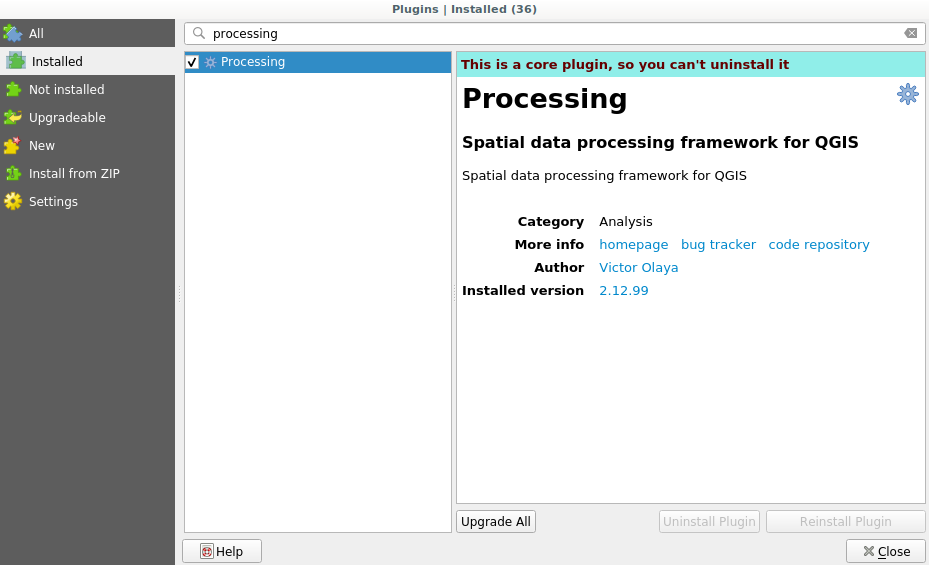
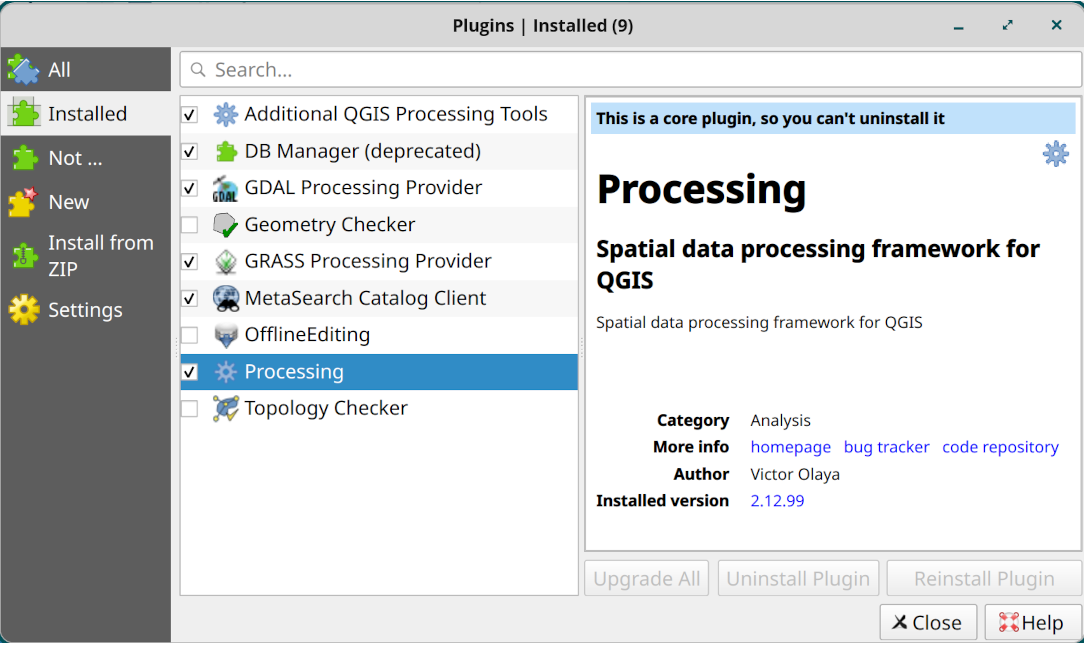
Training manual 18.3: Update screenshot of processing tab, plugin manager and toolbox

Changed region(s): [[0.0, 0.0, 1.0, 1.0], [0.0, 0.4513, 0.1249, 0.5115]]

diff --git a/docs/training_manual/processing/set_up.rst b/docs/training_manual/processing/set_up.rst
@@ -14,17 +14,20 @@ is active, you should see a menu called :guilabel:`Processing` in your menu bar.
 There you can access all the framework components.
 
 .. figure:: img/set_up/menu.png
+   :align: center
 
 If you cannot find that menu, you have to enable the plugin by going to the
 plugin manager and activating it.
 
 .. figure:: img/set_up/installer.png
+   :align: center
 
 The main element that we are going to work with is the toolbox. Click on the
 corresponding menu entry and you will see the toolbox docked at the right side
 of the QGIS window.
 
 .. figure:: img/set_up/toolbox.png
+   :align: center
 
 
 The toolbox contains a list of all the available algorithms, divided in groups
